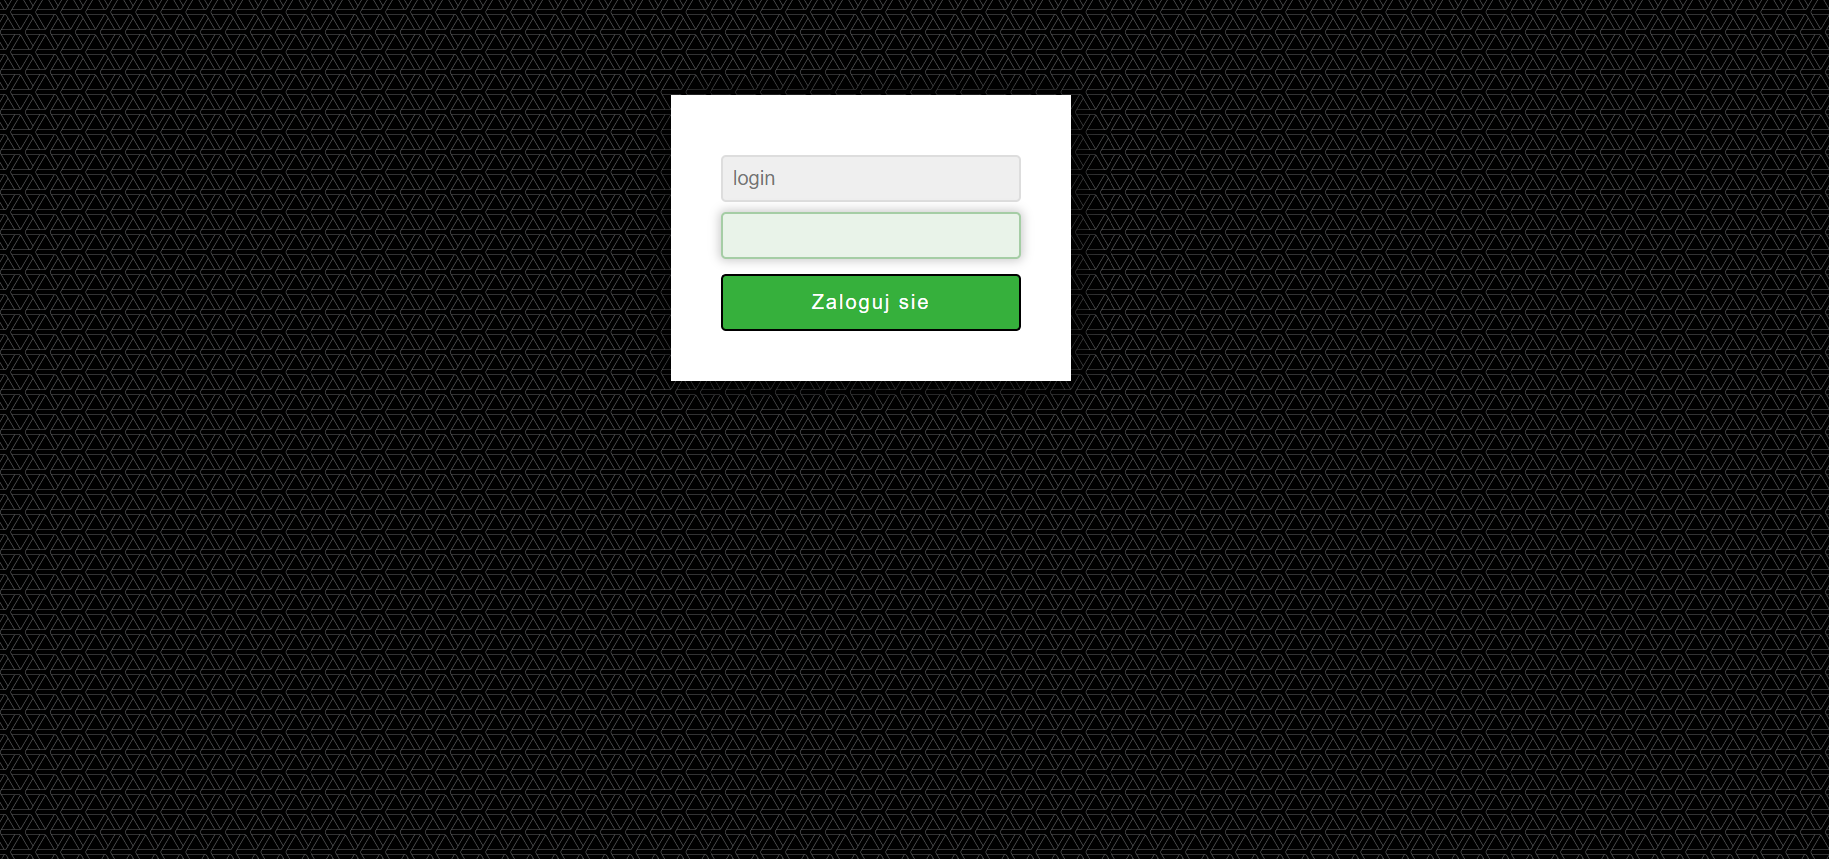
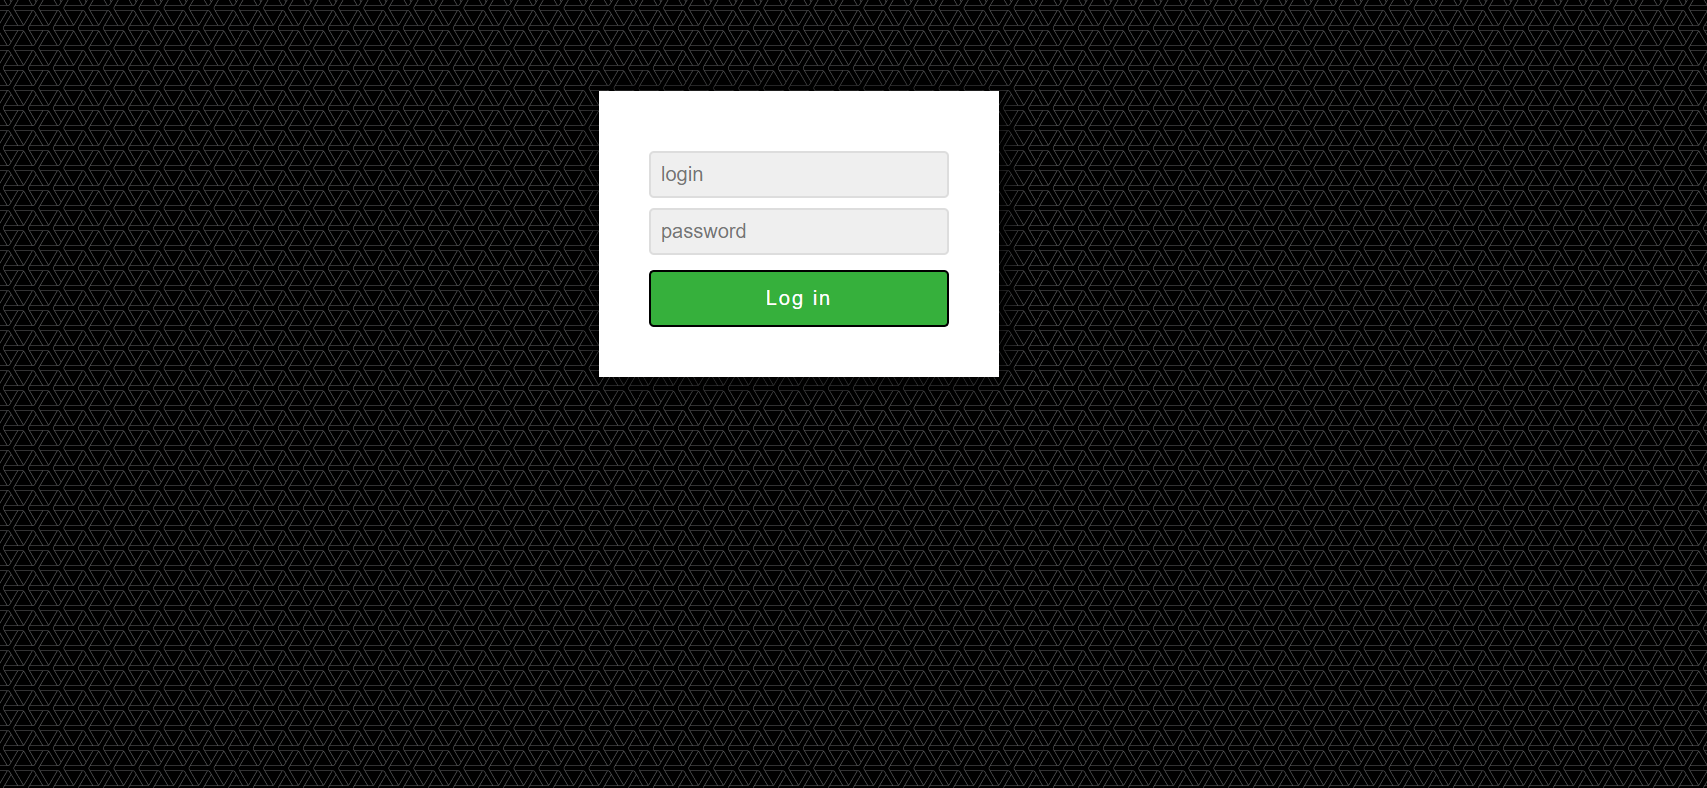
screenshots

diff --git a/html-css-projects/csstraining_loginform/index.html b/html-css-projects/csstraining_loginform/index.html
@@ -32,7 +32,7 @@
 				
 				
 				
-				<input type="submit" value="Zaloguj sie">
+				<input type="submit" value="Log in">
 				
 			</form>
 		</div>
